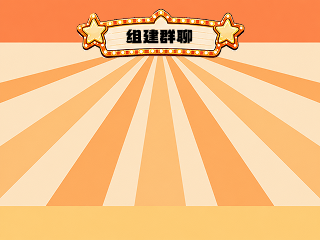
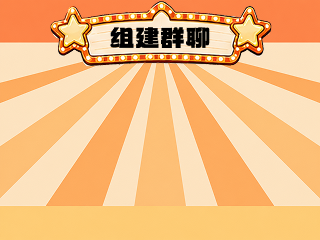
fix: 增大文字，修正素材比例和位置

Changed region(s): [[0.1562, 0.0, 0.875, 0.2917]]

diff --git a/src/ui/DisplayManager.cpp b/src/ui/DisplayManager.cpp
@@ -43,9 +43,8 @@ void DisplayManager::drawModeSelect() {
     M5.Display.fillScreen(C_BG);
     _drawPngAsset("/u/bg0.png", 0, 0, SCREEN_W, SCREEN_H);
 
-    _drawPngAsset("/u/md.png", 42, 84, 112, 122, 1.0f);
-    _drawPngAsset("/u/mb.png", 166, 84, 112, 122, 1.0f);
-    _drawPromptBox((SCREEN_W - 143) / 2, 210, 143, 23, "请选择模式", false);
+    _drawPngAsset("/u/md.png", 15, 76, 142, 155, 1.0f);
+    _drawPngAsset("/u/mb.png", 163, 76, 142, 155, 1.0f);
     _lastState = AppState::MODE_SELECT;
 }
 
@@ -70,10 +69,10 @@ void DisplayManager::drawPartyEntry(bool debate, bool redReady, bool blueReady) 
     } else {
         statePath = debate ? "/u/pk-plain.png" : "/u/ct-plain.png";
     }
-    _drawPngAsset(statePath, 0, 62, 320, 146, 1.0f);
+    _drawPngAsset(statePath, 0, 55, 320, 146, 1.0f);
 
     if (redReady && blueReady) {
-        _drawPromptBox((SCREEN_W - 84) / 2, 211, 84, 23,
+        _drawPromptBox((SCREEN_W - 104) / 2, 187, 122, 37,
                        debate ? "进入辩论" : "进入群聊", true);
     } else {
         _drawPromptBox((SCREEN_W - 217) / 2, 211, 217, 23,
@@ -88,21 +87,24 @@ void DisplayManager::drawDailyStage(const String& redExpression,
                                     StageSide speaker, int audioLevel) {
     M5.Display.fillScreen(C_BG);
     _drawPngAsset("/u/chat-2.png", 0, 0, SCREEN_W, SCREEN_H);
+    _drawPromptBox(19, 184, 78, 37, "退出", true);
 
     if (speaker == StageSide::Red) {
-        _drawPngAsset("/u/rsp.png", 122, 88, 76, 58, 0.42f);
+        _drawPngAsset("/u/rsp.png", 122, 88, 76, 58, 1.0f);
     } else if (speaker == StageSide::Blue) {
-        _drawPngAsset("/u/bsp.png", 122, 88, 76, 58, 0.42f);
+        _drawPngAsset("/u/bsp.png", 122, 88, 76, 58, 1.0f);
     } else {
-        _drawPngAsset("/u/bp.png", 126, 88, 68, 54, 0.36f);
+        _drawPngAsset("/u/bp.png", 13, 88, 130, 54, 1.0f);
+        if (audioLevel > 0) {
+            _drawWaveBars(78, 120, 16, audioLevel, C_NEON, false);
+        }
     }
 
     _drawStageExpression(StageSide::Red, speaker == StageSide::Red ? "speaking" : "silent",
-                         38, 86, 76, 76);
+                         29, 73, 70, 71.42);
     _drawStageExpression(StageSide::Blue, speaker == StageSide::Blue ? "speaking" : "silent",
-                         212, 88, 76, 76);
-    _drawPngAsset("/u/ua.png", 132, 150, 56, 56, 0.28f);
-    drawWaveIcon(audioLevel);
+                         220, 71.88, 70, 71.42);
+    _drawPngAsset("/u/ua.png", 130, 154, 60, 60, 1.0f);
 }
 
 void DisplayManager::drawDebateTopic(const String& redName, const String& blueName,
@@ -115,7 +117,7 @@ void DisplayManager::drawDebateTopicEntry(bool topicReady, int audioLevel) {
     M5.Display.fillScreen(C_BG);
     _drawPngAsset("/u/debate-2.png", 0, 0, SCREEN_W, SCREEN_H);
     if (topicReady) {
-        _drawPromptBox((SCREEN_W - 84) / 2, 211, 84, 23, "开始辩论", true);
+        _drawPromptBox((SCREEN_W - 112) / 2, 207, 112, 30, "开始辩论", true);
         _drawDebateProgress(DEBATE_INITIAL_SCORE, 196);
     } else {
         _drawPromptBox((SCREEN_W - 121) / 2, 211, 121, 23, "说出今日辩题", false);
@@ -132,15 +134,20 @@ void DisplayManager::drawDebateTurn(const String& redName, const String& blueNam
 
     const bool redSpeaking = speaker == StageSide::Red;
     _drawPngAsset(redSpeaking ? "/u/tr.png" : "/u/tb.png",
-                  0, 0, 150, 40, 0.42f);
+                  0, 0, 150, 40, 1.0f);
     M5.Display.setFont(FONT_L);
     M5.Display.setTextColor(0xFFFFFF);
-    String label = (redSpeaking ? redName : blueName) + " 发言中";
-    String lines[2];
-    int lineCount = 0;
-    _wrapText(label, 130, lines, lineCount, 1);
-    M5.Display.setCursor(10, 12);
-    M5.Display.print(lines[0]);
+    String speakerName = redSpeaking ? redName : blueName;
+    String nameLines[2];
+    int nameLineCount = 0;
+    _wrapText(speakerName, 82, nameLines, nameLineCount, 1);
+    String displayName = nameLineCount > 0 ? nameLines[0] : speakerName;
+    M5.Display.setCursor(10, 10);
+    M5.Display.print(displayName);
+    int nameW = M5.Display.textWidth(displayName.c_str());
+    M5.Display.setFont(FONT_S);
+    M5.Display.setCursor(12 + nameW, 16);
+    M5.Display.print("发言中...");
 
     _drawPngAsset("/u/tt.png", 232, 6, 78, 28, 0.34f);
     char tbuf[8];
@@ -187,7 +194,7 @@ void DisplayManager::drawDebateResult(StageSide winner, int winCount) {
     M5.Display.setFont(FONT_S);
     M5.Display.setTextColor(0x000000);
     String msg1 = String("这是") + (winner == StageSide::Red ? "红方" : "蓝方")
-               + "第" + String(winCount) + "次胜利";
+               + "第" + String(winCount) + "次胜利✌";
     M5.Display.setCursor(84, 184);
     M5.Display.print(msg1);
     M5.Display.setCursor(84, 201);
@@ -639,15 +646,25 @@ void DisplayManager::hideBottomBar() {
 
 // ── 声波动画指示器 ──────────────────────────────────────────────
 void DisplayManager::drawWaveIcon(int level) {
-    // 只重绘声波区域，不刷全屏
-    const int barW = 4, gap = 5, n = 3;
-    const int totalW = n * barW + (n - 1) * gap;  // 22px
-    const int startX = (SCREEN_W - totalW) / 2;
-    const int baseY  = BTN_Y + BTN_H - 5;
-    const int maxH   = 14;
+    _drawWaveBars(SCREEN_W / 2, BTN_Y + BTN_H - 5, 14, level, C_NEON, true);
+}
 
-    // 清除声波区域（稍微大一点避免残影）
-    M5.Display.fillRect(startX - 2, baseY - maxH - 2, totalW + 4, maxH + 8, C_BG);
+void DisplayManager::drawDailyUserWave(int level) {
+    _drawPngAsset("/u/bp.png", 13, 88, 130, 54, 1.0f);
+    if (level > 0) {
+        _drawWaveBars(78, 120, 16, level, C_NEON, false);
+    }
+}
+
+void DisplayManager::_drawWaveBars(int centerX, int baseY, int maxH, int level,
+                                   uint32_t color, bool clearBackground) {
+    const int barW = 4, gap = 5, n = 3;
+    const int totalW = n * barW + (n - 1) * gap;
+    const int startX = centerX - totalW / 2;
+
+    if (clearBackground) {
+        M5.Display.fillRect(startX - 2, baseY - maxH - 2, totalW + 4, maxH + 8, C_BG);
+    }
 
     for (int i = 0; i < n; i++) {
         float breathe = sinf(millis() / 600.0f + i * 2.1f) * 0.35f + 0.5f;
@@ -668,7 +685,7 @@ void DisplayManager::drawWaveIcon(int level) {
 
         int x = startX + i * (barW + gap);
         int y = baseY - h;
-        M5.Display.fillRoundRect(x, y, barW, h, 2, C_NEON);
+        M5.Display.fillRoundRect(x, y, barW, h, 2, color);
     }
 }
 
@@ -809,21 +826,18 @@ void DisplayManager::_drawDebateProgress(int score, int y) {
 void DisplayManager::_drawPromptBox(int32_t x, int32_t y, int32_t w, int32_t h,
                                     const String& text, bool button) {
     if (button) {
-        M5.Display.fillRoundRect(x + 2, y + 2, w, h, 20, 0xFFFFFF);
-        M5.Display.drawRoundRect(x + 2, y + 2, w, h, 20, 0xFFFFFF);
+        M5.Display.fillRoundRect(x + 2, y + 4, w, h, 20, 0xFFFFFF);
+        M5.Display.drawRoundRect(x + 2, y + 4, w, h, 20, 0xFFFFFF);
         M5.Display.fillRoundRect(x, y, w, h, 20, C_ACTION);
         M5.Display.drawRoundRect(x, y, w, h, 20, 0x000000);
-    } else {
-        M5.Display.fillRoundRect(x, y, w, h, 8, C_PROMPT);
-        M5.Display.drawRoundRect(x, y, w, h, 8, 0x000000);
+        M5.Display.drawRoundRect(x + 1, y + 1, w - 2, h - 2, 19, 0x000000);
     }
-
-    M5.Display.setFont(FONT_S);
+    M5.Display.setFont(FONT_L);
     M5.Display.setTextSize(1);
     M5.Display.setTextColor(0x000000);
     String lines[2];
     int lineCount = 0;
-    _wrapText(text, w - 8, lines, lineCount, 1);
+    _wrapText(text, w, lines, lineCount, 1);
     const String& line = lineCount > 0 ? lines[0] : text;
     int tw = M5.Display.textWidth(line.c_str());
     int th = M5.Display.fontHeight();

diff --git a/src/ui/ChatUI.cpp b/src/ui/ChatUI.cpp
@@ -51,7 +51,9 @@ void ChatUI::update() {
     _recorder.update();
 
     // ── 新版日常/辩论 UI 动画 ───────────────────────────────
-    if (_state == AppState::DAILY_STAGE || _state == AppState::DEBATE_TOPIC) {
+    if (_state == AppState::DAILY_STAGE) {
+        _display.drawDailyUserWave(_recorder.getAudioLevel());
+    } else if (_state == AppState::DEBATE_TOPIC) {
         _display.drawWaveIcon(_recorder.getAudioLevel());
     } else if (_state == AppState::DEBATE_TURN) {
         int elapsed = (int)((millis() - _debateTurnStartedMs) / 1000);
@@ -434,8 +436,8 @@ void ChatUI::_handleTouch() {
 
     if (_state == AppState::DAILY_INVITE || _state == AppState::DEBATE_ENTRY) {
         if (_redIndex >= 0 && _blueIndex >= 0 && _redIndex != _blueIndex
-            && t.x >= (SCREEN_W - 84) / 2 && t.x <= (SCREEN_W + 84) / 2
-            && t.y >= 211 && t.y <= 234) {
+            && t.x >= (SCREEN_W - 104) / 2 && t.x <= (SCREEN_W + 104) / 2
+            && t.y >= 207 && t.y <= 237) {
             _charMgr.setDualMode(_redIndex, _blueIndex);
             if (_state == AppState::DAILY_INVITE) {
                 _startDailyStage();
@@ -455,7 +457,7 @@ void ChatUI::_handleTouch() {
     }
 
     if (_state == AppState::DAILY_STAGE) {
-        if (t.x >= 10 && t.x <= 82 && t.y >= 196 && t.y <= 230) {
+        if (t.x >= 10 && t.x <= 82 && t.y >= 207 && t.y <= 237) {
             _recorder.stopListening();
             _enterModeSelect();
         }

diff --git a/src/ui/DisplayManager.h b/src/ui/DisplayManager.h
@@ -95,6 +95,7 @@ public:
 
     // 声波动画指示器（level 0-100，0 = 待机呼吸，>0 = 音频能量）
     void drawWaveIcon(int level);
+    void drawDailyUserWave(int level);
 
     // 识别进度条动画步进（内部用）
     int  progressStep;
@@ -110,6 +111,8 @@ private:
     void _drawStageExpression(StageSide side, const String& expression,
                               int32_t x, int32_t y, int32_t w, int32_t h);
     void _drawDebateProgress(int score, int y);
+    void _drawWaveBars(int centerX, int baseY, int maxH, int level,
+                       uint32_t color, bool clearBackground);
     void _drawPromptBox(int32_t x, int32_t y, int32_t w, int32_t h,
                         const String& text, bool button);
     void _drawBottomPrompt(const String& text);
